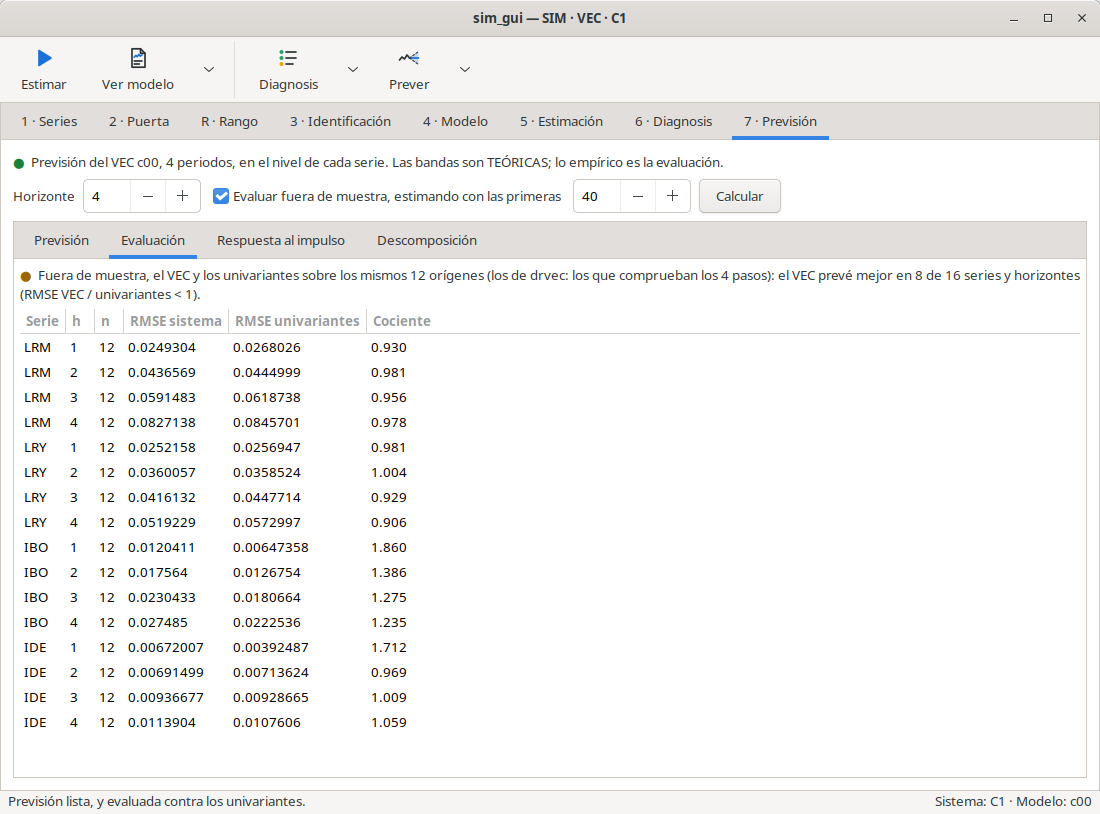
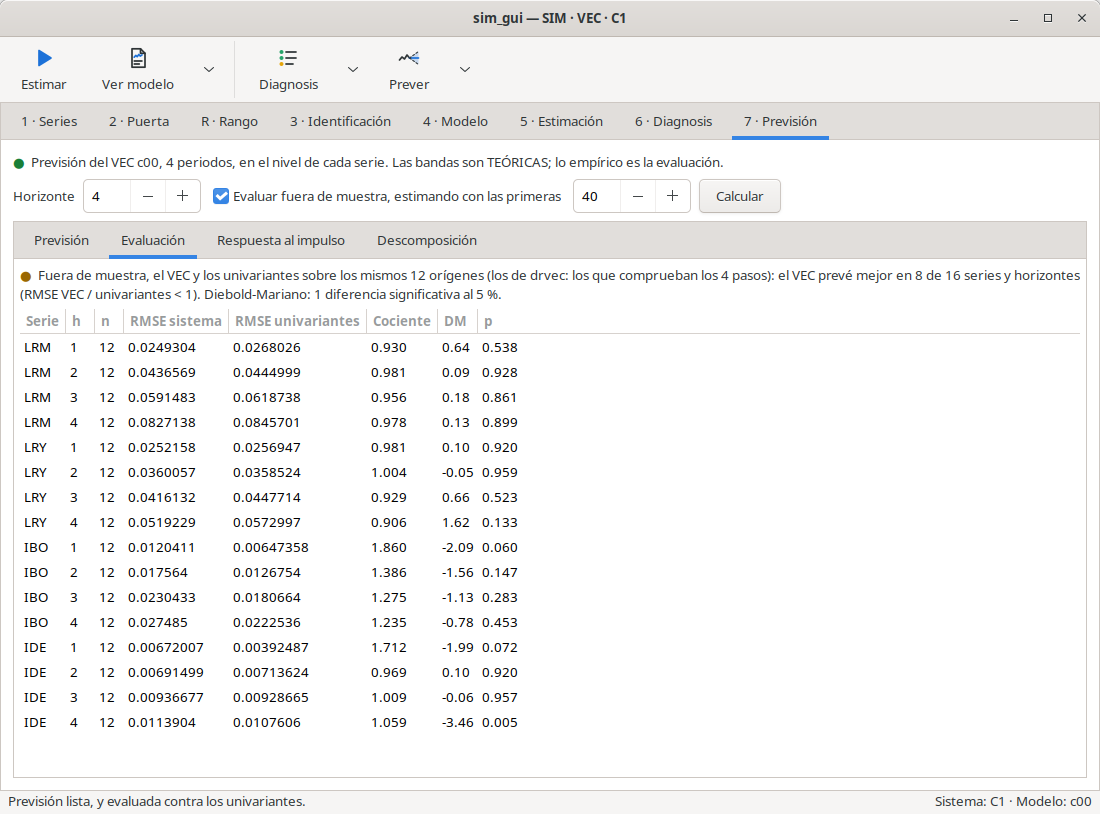
Manual: Diebold-Mariano en la evaluación del VARMA y del VEC
- Jenkins y Alavi: el sistema pierde en todas las casillas, pero ninguna
  diferencia es significativa (p entre 0.17 y 0.94).
- Johansen y Juselius: lo que el VEC gana en el dinero y la renta no es
  significativo; los tipos a un trimestre se quedan al borde; la única
  significativa, IDE a cuatro trimestres, con un cociente de 1.06 y 12
  orígenes, a leer con cuidado.
- Fotos de la evaluación rehechas con las columnas DM y p.

Changed region(s): [[0.1855, 0.3378, 0.4636, 0.8907]]

diff --git a/docs/manual/MANUAL.md b/docs/manual/MANUAL.md
@@ -1178,6 +1178,13 @@ casillas**, y en el visón por un 30–40 %. El modelo que dentro de la muestra
 mejora claramente a las series solas no prevé mejor fuera de ella. Jenkins y
 Alavi no pudieron hacer esta prueba.
 
+Las dos últimas columnas dicen si esas diferencias pesan: el contraste de
+**Diebold-Mariano**, con la corrección de Harvey, Leybourne y Newbold para
+muestras cortas. Es positivo cuando el sistema prevé mejor. Aquí todos son
+negativos y ninguno es significativo (p entre 0.17 y 0.94): con 12 a 14
+orígenes, el sistema no prevé mejor, pero tampoco se puede decir que prevea
+peor.
+
 La lección es la regla de la escalera: **los univariantes son la vara de
 medir**, también al prever. El sistema queda como la *descripción* de cómo se
 afectan las dos poblaciones —la depredación y la comida—, que era la
@@ -1410,6 +1417,13 @@ la renta, por poco, y **peor los tipos de interés**, en IBO a un trimestre casi
 el doble. Tiene sentido con lo anterior: los tipos son débilmente exógenos, la
 relación no les dice nada sobre su futuro, y el VEC les añade parámetros que
 estimar.
+
+Diebold-Mariano lo matiza. Lo que el VEC gana en el dinero y la renta no es
+significativo. Lo que pierde en los tipos a un trimestre se queda al borde
+(p = 0.06 y 0.07). La única diferencia significativa es la de IDE a cuatro
+trimestres (p = 0.005), y con un cociente de solo 1.06: con 12 orígenes y
+cuatro pasos, la varianza del contraste se estima con muy pocos datos, así
+que conviene leerla con cuidado.
 
 ![La respuesta al impulso del VEC](img/vec-irf.png)
 
